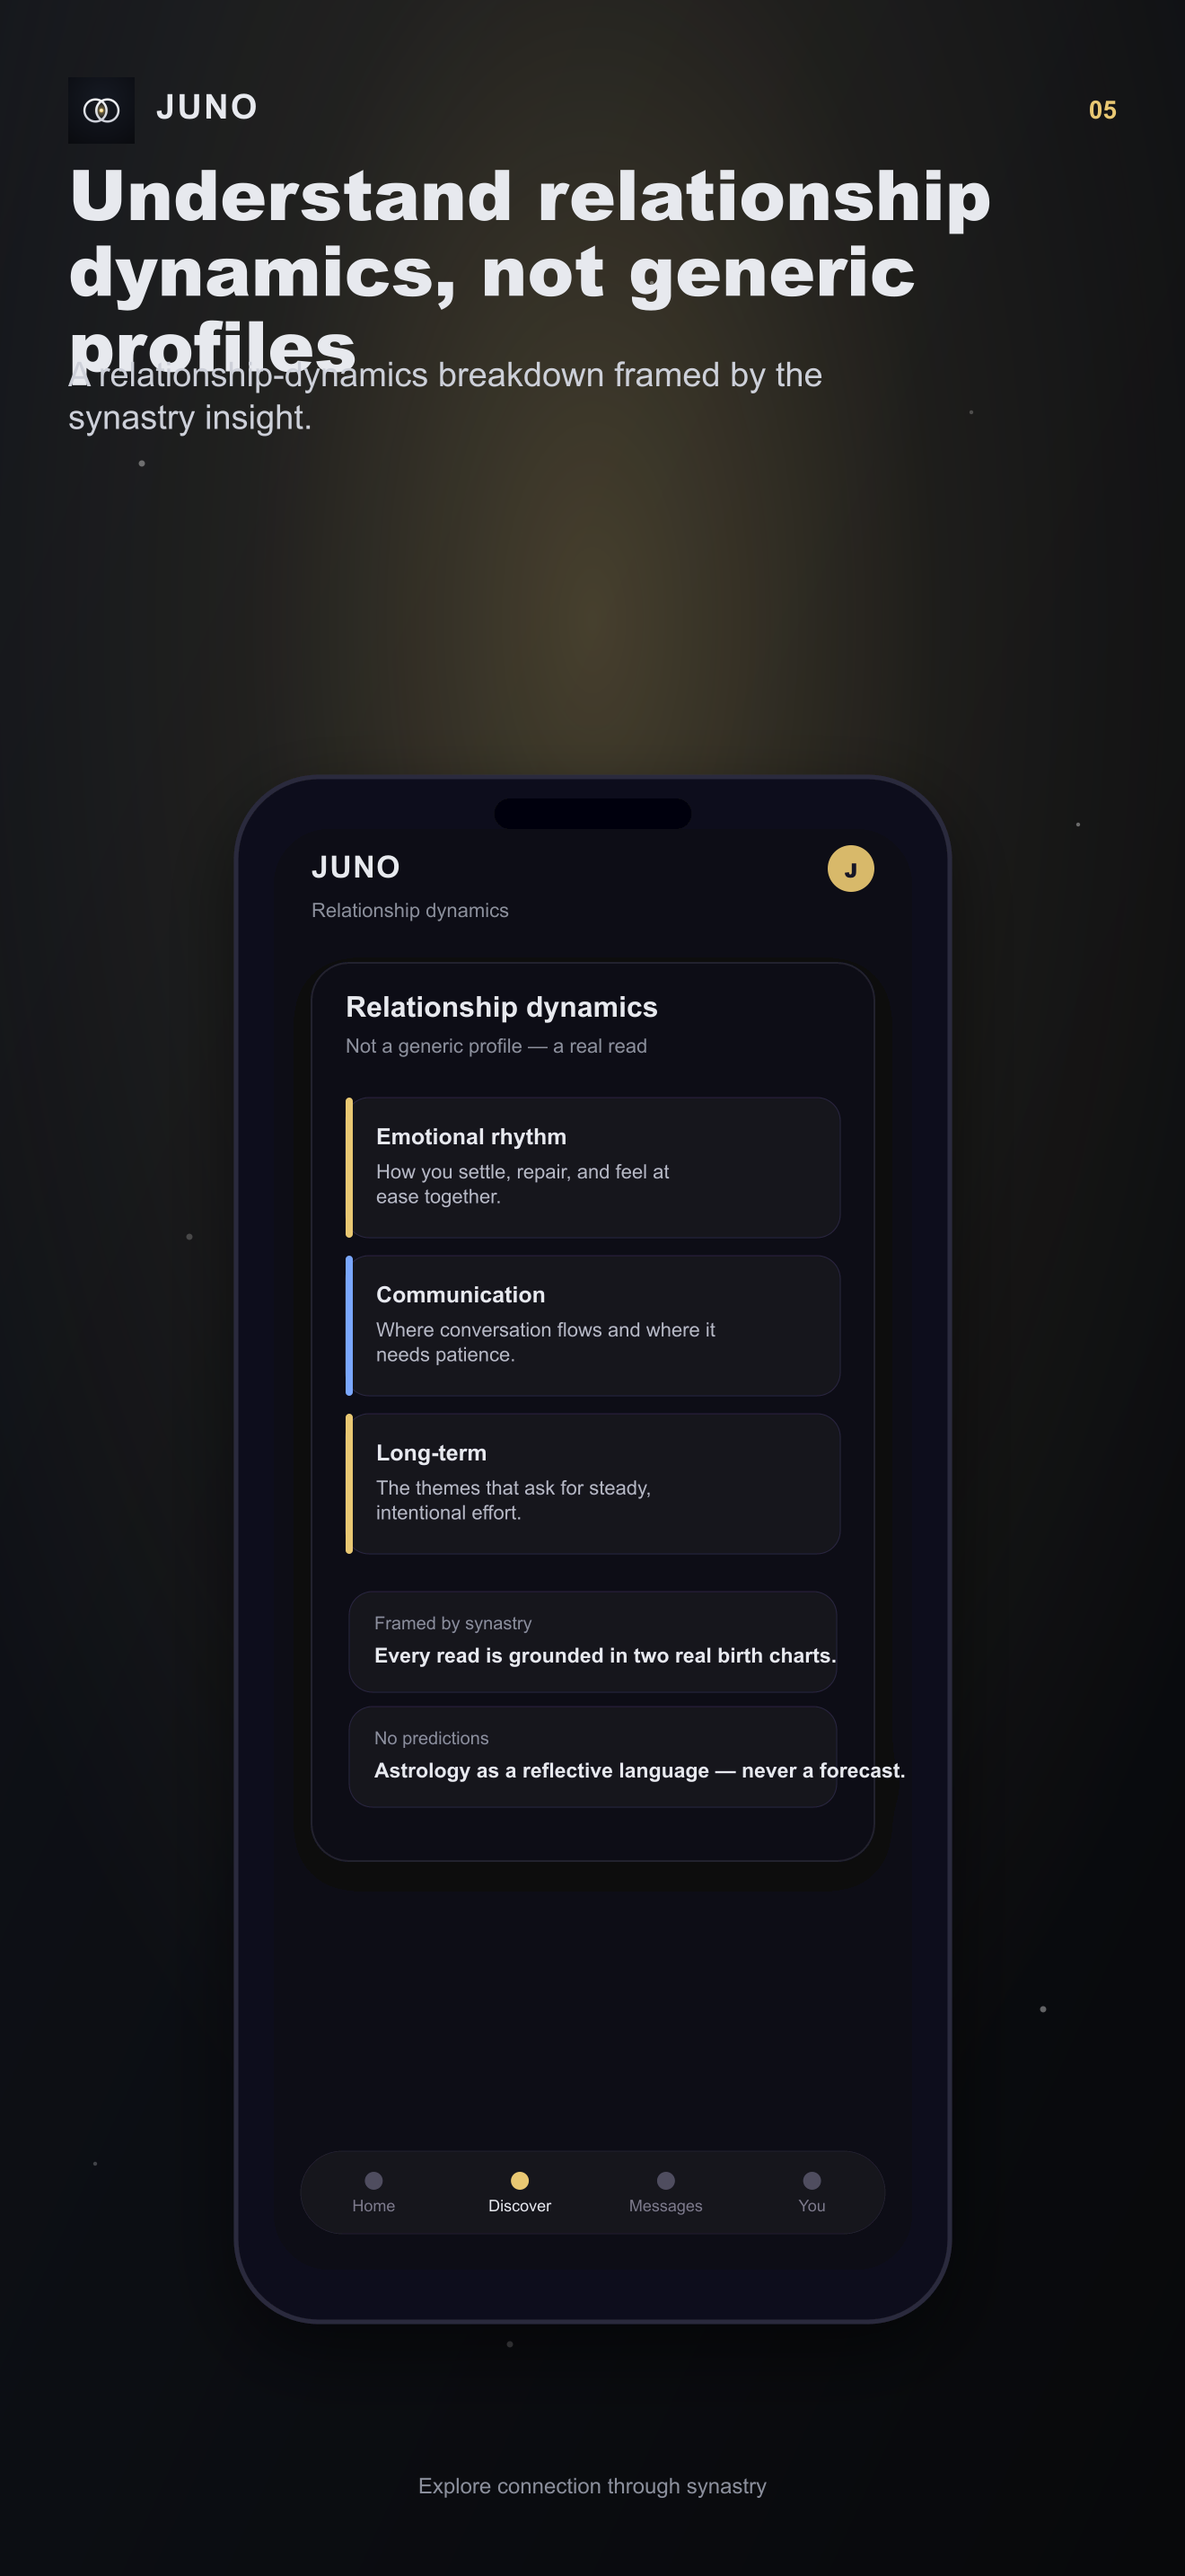
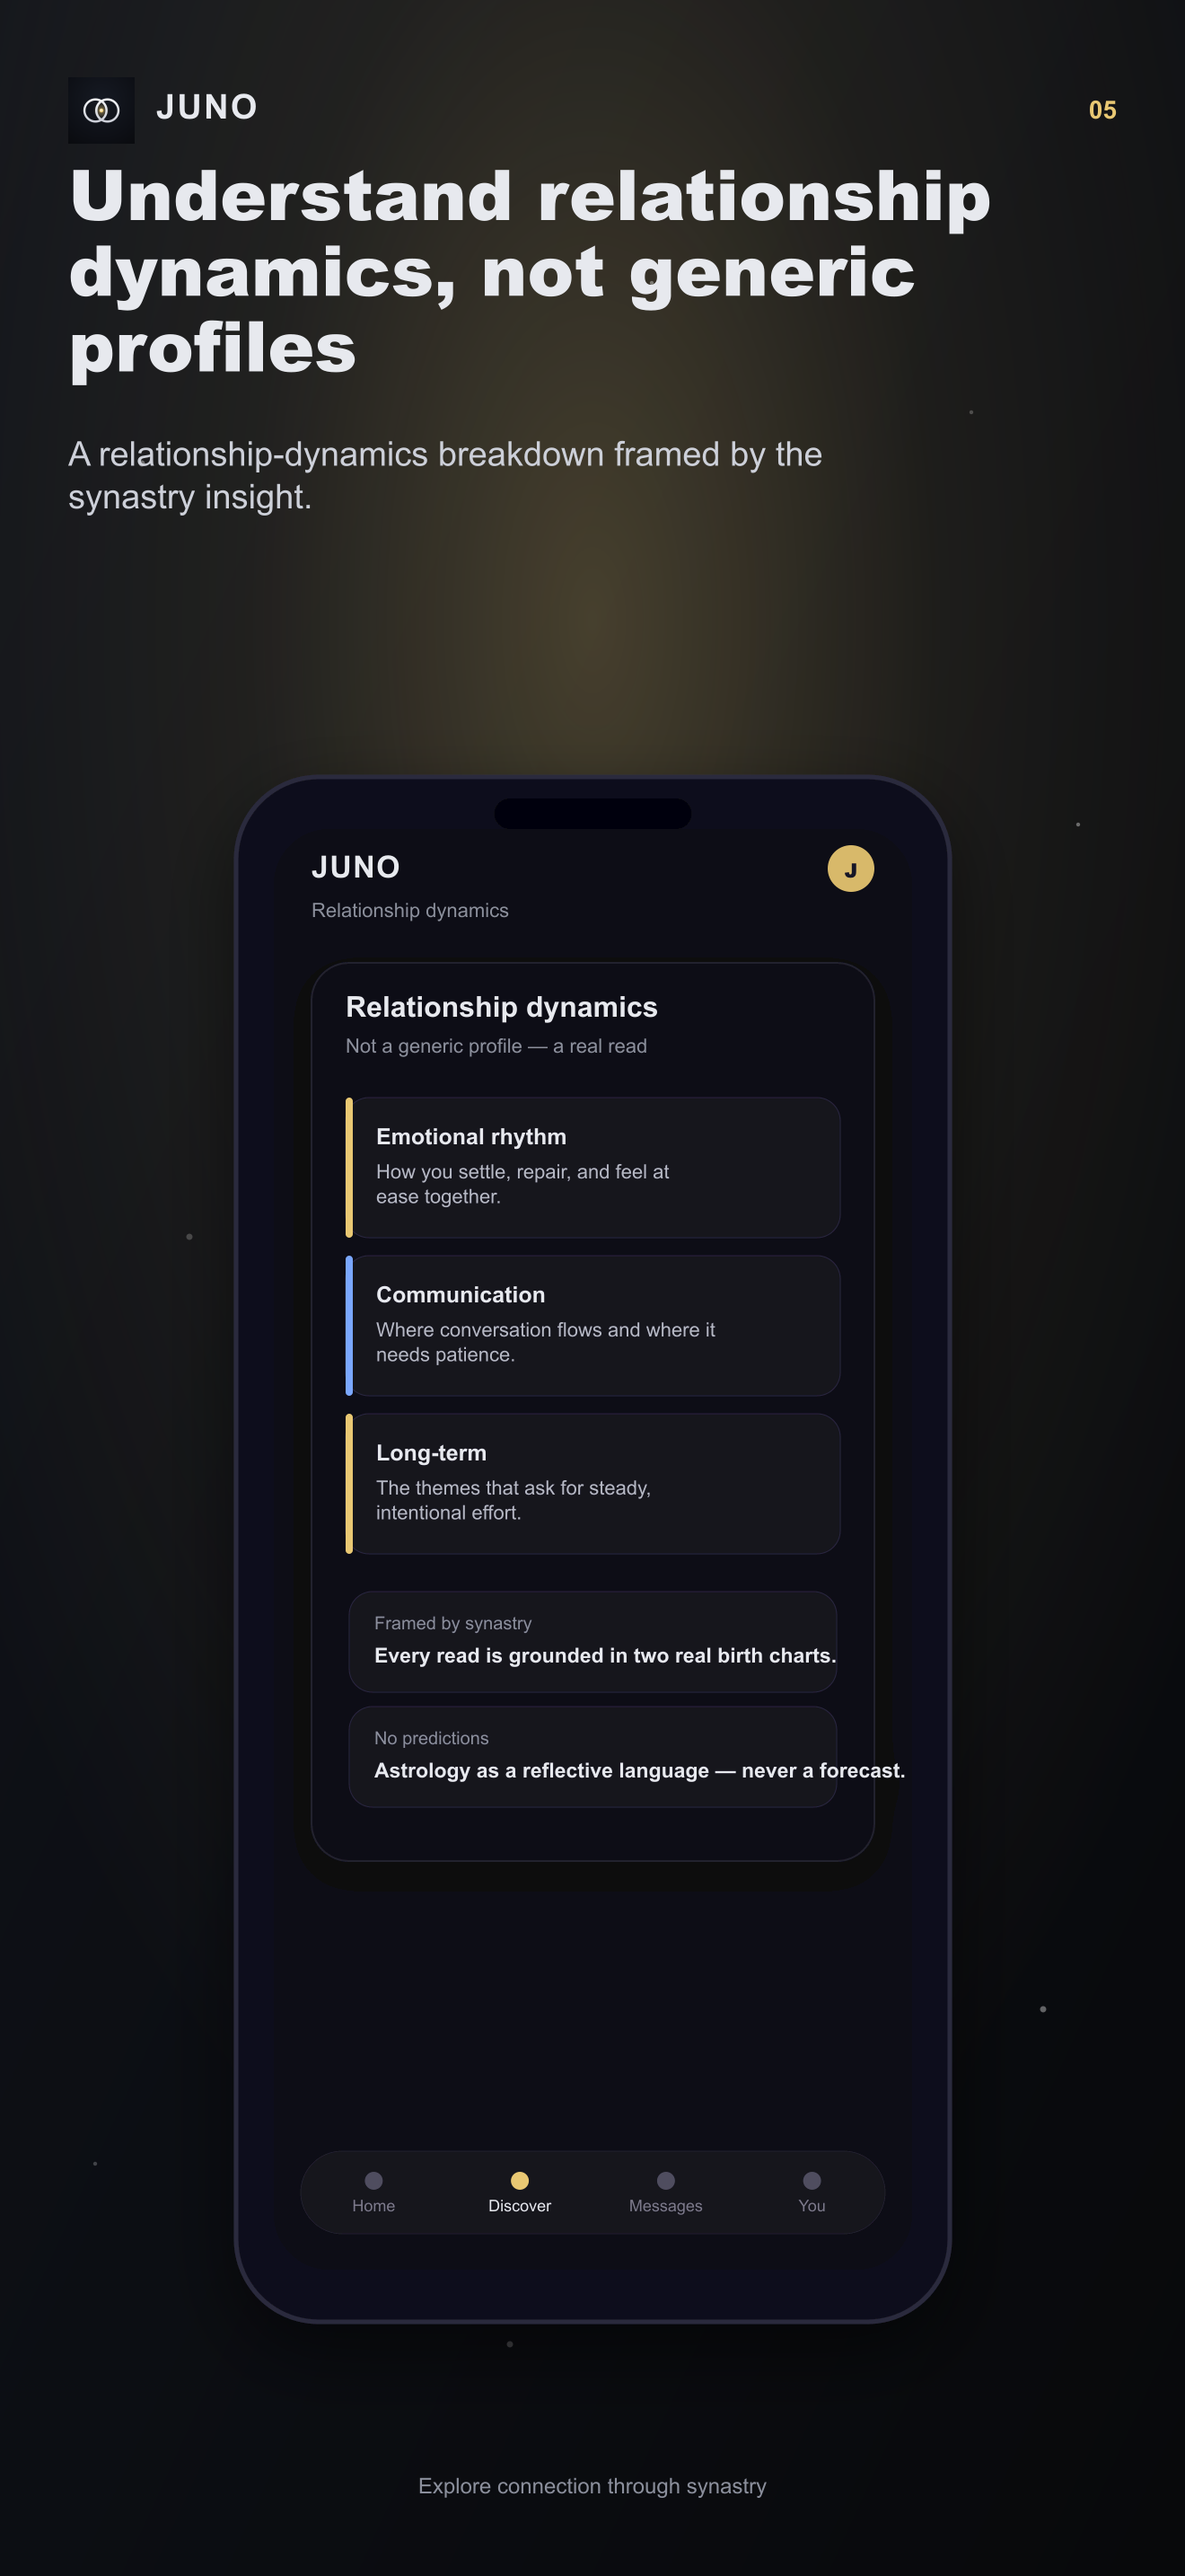
fix(app-store): correct screenshot generator + drop stale resubmission assets
- generate-app-store-screenshots.mjs: compute the subtitle Y offset from
  the actual title line count (3-line titles previously overlapped)
- regenerate the 10 synthetic JUNO screenshots (iPhone 6.9" + iPad 13")
- remove 10 non-submittable app-store-real screenshots showing the
  pre-rebrand AstroDating wordmark/UI; add a regeneration README
- play-store-listing.md: mark SUPERSEDED, fix the broken pointer to
  docs/app-store/juno-metadata.md

diff --git a/apps/mobile/store-assets/app-store-real/README.md b/apps/mobile/store-assets/app-store-real/README.md
@@ -1,0 +1,46 @@
+# app-store-real — captured JUNO screenshots (regenerate before submission)
+
+This directory is for App Store screenshots **composed from real JUNO
+screen captures** (`scripts/compose-app-store-screenshots-from-captures.mjs`).
+
+It is intentionally **empty**. The previous contents were removed on
+2026-05-22 because they were not submittable:
+
+- `01-discover-real-profiles.png`, `02-chat-real-context.png`,
+  `03-synastry-score.png`, `04-cosmic-premium-tools.png`,
+  `05-celestial-insights.png` — pre-rebrand captures that show the old
+  **AstroDating** wordmark in the header.
+- `01-synastry-insight.png` … `05-relationship-dynamics.png` — JUNO-framed
+  composites, but the embedded phone capture still showed the old
+  AstroDating UI (the source captures in
+  `apps/web/public/screenshots/` predate the JUNO rebrand).
+
+A screenshot that shows `AstroDating` anywhere — including inside the
+framed phone — must never be uploaded to App Store Connect.
+
+## Two ways to produce the store screenshots
+
+### A. Synthetic placeholders — ready now
+
+`apps/mobile/store-assets/app-store/` already holds 5 fully synthetic,
+JUNO-branded shots (iPhone 6.9" + iPad 13") generated by
+`node scripts/generate-app-store-screenshots.mjs`. They carry no
+AstroDating brand, no swipe deck, no like/pass and no match-celebration,
+and follow the narrative in `docs/marketing/screenshot-seed-notes.md`.
+They are submittable as-is.
+
+### B. Real captures — regenerate this directory
+
+To compose real screenshots into this directory:
+
+1. Recapture the source screens from a **JUNO-branded** build (the web
+   app once redeployed, or the mobile app) into
+   `apps/web/public/screenshots/` — `discover.png`, `chat.png`,
+   `compatibility.png`, `premium-cosmic.png`, `premium-celestial.png`.
+   Follow `docs/marketing/screenshot-seed-notes.md` (Phase 3).
+2. Confirm none of the captures show the `AstroDating` wordmark.
+3. Run `node scripts/compose-app-store-screenshots-from-captures.mjs`.
+4. The 5 framed shots land back in `app-store-real/iphone-6-9/`.
+
+Until step 1 is done against a JUNO build, submit the synthetic set from
+`app-store/` instead.

diff --git a/docs/marketing/play-store-listing.md b/docs/marketing/play-store-listing.md
@@ -1,9 +1,16 @@
-> **Superseded for store submission.** The current paste-ready store listing
-> (App Store + Play Store) lives in `docs/app-store/saturn-metadata.md`.
-> Brand names below were updated to JUNO, but framing may still read as
-> dating — defer to the metadata doc.
+> **⚠ SUPERSEDED — historical reference only.** The current paste-ready
+> store listing (App Store + Play Store: title, subtitle, short / full
+> description, keywords, category) lives in
+> [`docs/app-store/juno-metadata.md`](../app-store/juno-metadata.md), and
+> the App Review pack in
+> [`docs/app-store/juno-app-review-notes.md`](../app-store/juno-app-review-notes.md).
+> Everything below predates the JUNO synastry-led repositioning: it still
+> uses swipe / dating-clone framing ("Talk, Don't Swipe", "no swipe
+> paywall", "dating with depth") that must **not** ship to any store.
+> Do not copy from this file — defer entirely to `juno-metadata.md`.
+> Kept only as a record of the earlier conversation-first draft.
 
-# JUNO — Play Store Listing
+# JUNO — Play Store Listing (historical draft)
 
 Realigns the live listing with the post-MVP direction: **conversation-first, anti-paywall-to-talk, profile depth (intent + values + lifestyle + prompts + voice + icebreakers)** with astrology as backbone. Replaces the older synastry-only framing.
 
